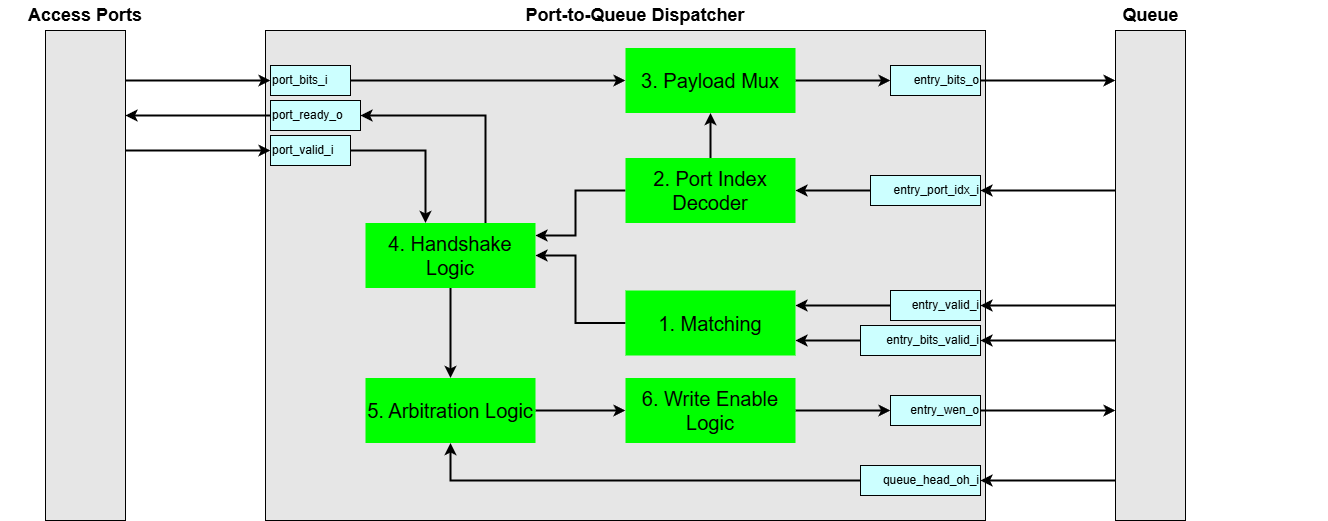
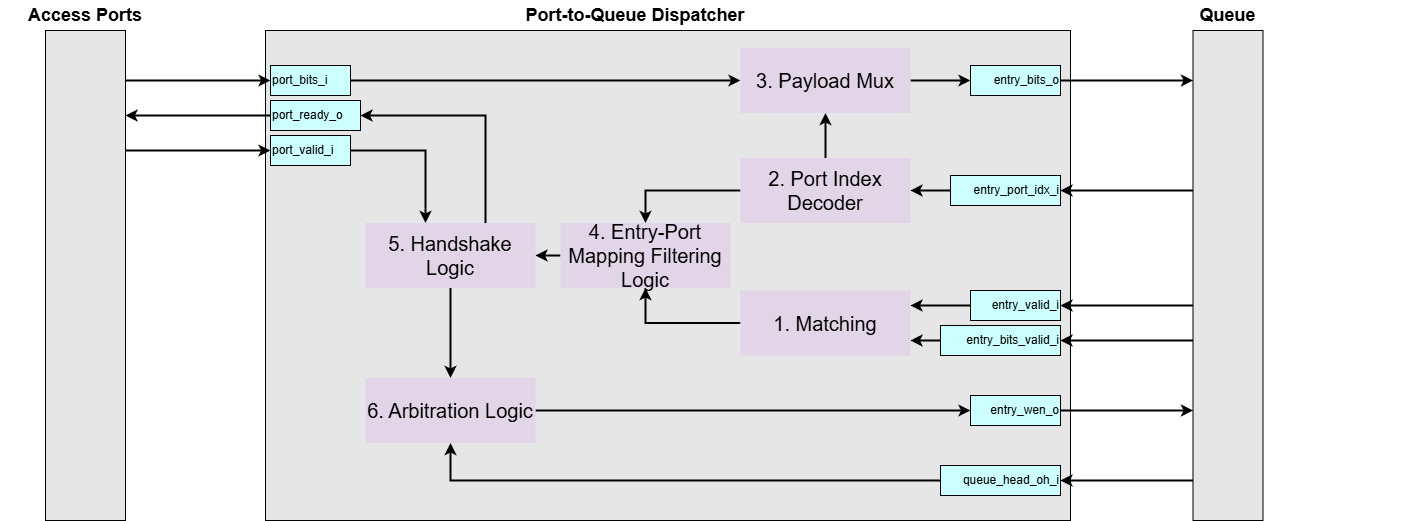
port-to-queue dispatcher document updates: adding more figures and clearer description

diff --git a/docs/LSQ/PortToQueueDispatcher.md b/docs/LSQ/PortToQueueDispatcher.md
@@ -18,50 +18,115 @@ In the LSQ architecture, memory operations from the dataflow circuit arrive at d
 
 ![Port-to-Queue Dispatcher High-Level](./figs/PTQ_high_level.png)
 
-### Interface Signals
-| Signal Name          | Description     |
-| -------------------- |  --------------- |
-| `port_bits_i[p]`        | _“Here is my 8-bit payload.”_ (address or data)  |
-| `port_valid_i[p]`       | _“…and I really mean it.”_  High when the payload is ready.   |
-| `port_ready_o[p]`       | Dispatcher replies: _“Sure, send it!”_  Goes high if the queue can take the request this cycle.  |
-| `entry_valid_i[e]`      | Is queue entry **_e_** logically allocated?   |
-| `entry_bits_valid_i[e]` | Has the addr/data slot already been filled? |
-| `entry_port_idx_i[e]`   | Indicates to which port the entry is assigned|
-| `entry_bits_o[e]`       | The data actually written into the queue entry **_e_**. Think of it as the ink flowing into row **_e_** on the whiteboard.|
-| `entry_wen_o[e]`        | A short pulse that says _“commit the write into entry **_e_** now.”_ |
-| `queue_head_oh_i[e]`    | One-hot vector indicating the head entry in the queue |
+Let's assume the following generic parameters for dimensionality:
+* `N_PORTS`: The total number of ports.
+* `N_ENTRIES`: The total number of entries in the queue.
+* `PAYLOAD_WIDTH`: The bit-width of the payload (e.g., 8 bits).
+* `PORT_IDX_WIDTH`: The bit-width required to index a port (e.g., `ceil(log2(N_PORTS))`).
+
+### Port Interface Signals
+
+![Port Interface](./figs/PTQ_Port_Interface.png)
+
+These signals are used for communication between the external modules and the dispatcher's ports.
+
+| Signal Name | Direction | Dimensionality | Description |
+| :--- | :--- | :--- | :--- |
+| **Inputs** | | | |
+| `port_bits_i` | Input | `N_PORTS` of `std_logic_vector(PAYLOAD_WIDTH-1:0)` | Array of payloads (address or data), one for each port. |
+| `port_valid_i` | Input | `N_PORTS` of `std_logic` | Array of valid flags. When `port_valid_i[p]` is high, the payload on `port_bits_i[p]` is valid.|
+| **Outputs** | | | |
+| `port_ready_o` | Output | `N_PORTS` of `std_logic` | Array of ready flags. `port_ready_o[p]` goes high if the queue can accept the payload from port `p` this cycle. |
+
+
+
+### Queue Interface Signals
+
+These signals are used for communication between the dispatcher logic and the queue's memory entries.
+
+![Queue Interface](./figs/PTQ_Queue_Interface.png)
+
+| Signal Name | Direction | Dimensionality | Description |
+| :--- | :--- | :--- | :--- |
+| **Inputs** | | | |
+| `entry_valid_i` | Input | `N_ENTRIES` of `std_logic` | Is queue entry `e` logically allocated? |
+| `entry_bits_valid_i` | Input | `N_ENTRIES` of `std_logic` | Has the address or the data slot for entry `e` already been filled? |
+| `entry_port_idx_i` | Input | `N_ENTRIES` of `std_logic_vector(PORT_IDX_WIDTH-1:0)`| Indicates to which port each entry is assigned. |
+| `queue_head_oh_i` | Input | `std_logic_vector(N_ENTRIES-1:0)` | One-hot vector indicating the head entry in the queue. |
+| **Outputs** | | | |
+| `entry_bits_o` | Output | `N_ENTRIES` of `std_logic_vector(PAYLOAD_WIDTH-1:0)`| The data to be written into each queue entry. Think of it as the ink flowing into a row on the whiteboard. |
+| `entry_wen_o` | Output | `N_ENTRIES` of `std_logic` | A write-enable signal for each entry. When `entry_wen_o` of entry `e` is high, `entry_bits_valid_i[e]` will become high by the logic outside of the dispatcher. |
+
+
 
 
 The Port-to-Queue Dispatcher has the following responsibilities:
 
 1. **Matching**  
-The Matching block is responsible for identifying which queue entries are actively waiting to receive an address or data payload.
-    - **Input**: `entry_valid_i`, `entry_bits_valid_i`
-    - **Processing**: For each queue entry, this block performs the check: `entry_valid_i AND (NOT entry_bits_valid_i)`. An entry is considered waiting only if it has been allocated (`entry_valid_i = 1`) by the group allocator but has not yet had its address or data payload written.
-    - **Output**: A array of bits indicating the status of all queue entries.
+    ![Matching](./figs/Matching.png)  
+    The Matching block is responsible for identifying which queue entries are actively waiting to receive an address or data payload.
+    - **Input**:  
+        - `entry_valid_i`: Indicates if the entry is allocated by the group allocator.
+        - `entry_bits_valid_i`: Indicates if the entry's payload slot is already filled. 
+    - **Processing**: For each queue entry, this block performs the check: `entry_valid_i AND (NOT entry_bits_valid_i)`. An entry is considered waiting only if it has been allocated (`entry_valid_i = 1`) but its payload slot is still empty (`entry_bits_valid_i = 0`)
+    - **Output**:  
+        - `entry_request_valid`: A array of bits indicating the queue entry is ready to receive address or data.
 
 2. **Port Index Decoder**  
-For each queue entry, it is already assigned to the port by the group allocator. The Port Index Decoder block translates the port assignment for each queue entry from a binary index into a one-hot vector.
-    - **Input**: `entry_port_idx_i`
-    - **Processing**: It performs a binary-to-one-hot conversion on the port index associated with each entry. For example, if there are 3 ports, a binary index of `01` would be converted to a one-hot vector of `010`.
-    - **Output**: A one-hot vector for each entry that directly corresponds to the port it is assigned to.
+    ![Port_Index_Decoder](./figs/Port_Index_Decoder.png)  
+    When the group allocator allocates a queue entry, it also assigns the queue entry to a specific port, storing this port assignment as an integer. The Port Index Decoder decodes the port assignment for each queue entry from an integer representation to a one-hot representation.
+    - **Input**:   
+        - `entry_port_idx_i`: Queue entry-port assignment information
+    - **Processing**:  
+        - It performs a binary-to-one-hot conversion on the port index associated with each entry. For example, if there are 3 ports, a binary index of `01` would be converted to a one-hot vector of `010`.
+    - **Output**:  
+        - `entry_port_valid`: A one-hot vector for each entry that directly corresponds to the port it is assigned to.
 
 3. **Payload Mux**  
-This block constitutes the main data path of the dispatcher. It ensures that each queue entry's input is connected to the correct address or data payload from the assigned access port.
-    - **Input**: `port_bits_i` (address or data from all access ports), and a select one-hot select signal indicating the port index for each queue entry.
-    - **Processing**: For each queue entry, this is a multiplexer that selects one port's data from the `port_bits_i` array. The selection is determined by the one-hot port index from the `Port Index Decoder`.
-    - **Output**: `entry_bits_o`
+    ![Mux1H](./figs/Mux1H.png)  
+    This block routes the address or data payload from the appropriate input port to the correct queue entries. 
+    - **Input**:  
+         - `port_bits_i`: An array containing the address or data payload from all access ports.
+         - `entry_port_valid`: The one-hot port assignment for each queue entry, used as the select signal.
+    - **Processing**: For each queue entry, a multiplexer `Mux1H` uses the corresponding `entry_port_valid` one-hot vector to select one payload from `port_bits_i` array.
+    - **Output**:  
+        - `entry_bits_o`: The selected payload of each queue entry.
 
-4. **Handshake Logic**
-This block manages the `valid/ready` handshake protocol with the external access ports.
-    - **Input**: The list of waiting entries (from `Matching`), their port assignments (from `Port Index Decoder`), and the `port_valid_i` signal.
-    - **Processing**: It determines if any waiting entry is requesting data from a specific port. If so, it asserts the `ready` signal for that port, indicating it is prepared to accept the payload. Furthermore, it filters all waiting requests against the incoming `port_valid_i` signals to determine the final set of active requests that are passed to the `Arbitration Logic`.
+4. **Entry-Port Assignment Masking Logic**  
+    ![Entry-Port Assignment Assignment Logic](./figs/Ready_Port_Selector.png)  
+    Each entry is waiting for the payload from a certain port. This block masks out the port assignments for each queue entry if it is not ready to receive the payload. It propagates these entry-port assignment information only for entries that are available to receive the payload.
+    
+    - **Input**:  
+         - `entry_port_valid`: A one-hot vector for each entry representing its assigned port.
+         - `entry_request_valid`: A bit array indicating which entries are ready to receive.
+    - **Processing**: Performs a bitwise AND operation between each entry's one-hot port assignment (`entry_port_valid`) and its readiness status (`entry_request_valid`). This masks out assignments for entries that are not ready.
+    - **Output**:  
+        - `entry_port_request`: A one-hot vector for each entry representing its assigned port, but zero when the queue entry is not ready.
 
-5. **Arbitration Logic**  
-The core decision making block of the dispatcher. When multiple valid requests are ready to be written in the same cycle, it chooses the oldest queue entry among the valid ones for each port.
-    - **Input**: The set of all currently valid and ready requests (informed by `Handshake Logic`), and `queue_head_oh_i` to determine priority.
-    - **Processing**: It uses a Cyclic Priority Masking algorithm. This ensures that among all candidates for each port, the one corresponding to the oldest entry in the queue is granted for the current clock cycle.
-    - **Output**: `entry_wen_o` signal, which acts as the enable for the queue entry. This signal finally makes the queue's `entry_bits_valid` signal high.
+
+
+5. **Handshake Logic**  
+    ![PTQ_Handshake](./figs/PTQ_Handshake.png)  
+    This block manages the `valid/ready` handshake protocol with the external access ports. It generates the outgoing `port_ready_o` signals and produces the final entry-port assignments that have completed a successful handshake (i.e. the internal request is ready and the external port is valid).
+
+    - **Input**:  
+        - `entry_port_request`: A one-hot vector for each entry representing its assigned port, but zero when the queue entry is not ready.
+        - `port_valid_i`: The incoming port valid signals from each external port.
+    - **Processing**:  
+        - Ready Generation: It determines if any queue entry is waiting for data from a specific port. If so, it asserts the `port_ready_o` signal for that port to indicate it can accept data. 
+        - Handshake: It then uses the external `port_valid_i` signals to mask out entries in `entry_port_request` if the corresponding port is not valid.
+    - **Output**:
+        - `port_ready_o`: The outgoing ready signal to each external port.
+        - `entry_port_and`: Represents the set of handshaked entry-port assignments. This signal indicates a successful handshake and is sent to the **Arbitration Logic** to select the oldest one.
+
+6. **Arbitration Logic**  
+    ![PTQ_Handshake](./figs/PTQ_Masking.png)  
+    The core decision making block of the dispatcher. When multiple handshaked entry-port assignments are ready to be written in the same cycle, it chooses the oldest queue entry among the valid ones for each port.
+    - **Input**:  
+        - `entry_port_and`: The set of all currently valid and ready entry-port assignments.
+        - `queue_head_oh_i`: The queue's one-hot head vector.
+    - **Processing**: It uses a `CyclicPriorityMasking` algorithm. This ensures that among all candidates for each port, the one corresponding to the oldest entry in the queue is granted for the current clock cycle.
+    - **Output**: `entry_wen_o` signal, which acts as the enable for the queue entry. This signal ultimately causes the queue's `entry_bits_valid` signal to go high via logic outside of the dispatcher.
 
 
 
@@ -73,8 +138,9 @@ The core decision making block of the dispatcher. When multiple valid requests a
 ### Example of Store Address Port-to-Queue Dispatcher (3 Store Ports, 4 Store Queue Entries)
 
 1. **Matching: Identifying which queue slots are empty**  
-The first job of this block is to determine which entries in the store queue are waiting for a store address.  
-Based on the example diagram:  
+    ![Matching](./figs/Matching.png)  
+    The first job of this block is to determine which entries in the store queue are waiting for a store address.  
+    Based on the example diagram:  
     - **Entry 1** is darkened to indicate that it has not been allocated by the Group Allocator. Its `Store Queue Valid` signal (equivalent to `entry_valid_i`) is `0`.  
     - **Entries 0, 2, and 3** have been allocated, so their `entry_valid_i` signal are `1`. However, among these, Entry 2 already has a valid address (`Store Queue Addr Valid = 1`).
     - Therefore, only `Entries 0 and 3` are actively waiting for their store address, as they are allocated but their `Store Queue Addr Valid` bit is still `0`.  
@@ -82,8 +148,9 @@ Based on the example diagram:
     This logic is captured by the expression `entry_request_valid = entry_valid_i AND (NOT entry_bits_valid_i)`, which creates a list of entries that need attention from the dispatcher.
 
 2. **Port Index Decoder: Queue entries port assignment in one-hot format**
-This block's circuit is to translate the binary port index assigned to each queue entry into a one-hot format.  
-Based on the example diagram:  
+    ![Port_Index_Decoder](./figs/Port_Index_Decoder.png)  
+    This block's circuit is to decode the binary port index assigned to each queue entry into a one-hot format.  
+    Based on the example diagram:  
     - The `Store Queue` shows that `Entry 0` is assigned to `Port 1` , `Entry 1` to `Port 0`, `Entry 2` to `Port 1` and `Entry 3` to `Port 2`. 
     - The `Port Index Decoder` takes these binary indices (`00`, `01`, `10`) as input.
     - It processes them and generates a corresponding one-hot vector for each entry. Since there are three access ports, the vector are three bits wide:
@@ -95,9 +162,8 @@ Based on the example diagram:
     The output of this block, an array of one-hot vectors, is a crucial input for the `Payload Mux`, where it acts as the select signal to choose the data from the correct port.    
 
 3. **Payload Mux: Routing the correct address**  
-The Payload Mux is the primary data path within the dispatcher. Its sole responsibility is to select the correct address from one of the many input `Access Ports` and route it to the output, `entry_bits_o`.  
-Crucially, there is a separate Mux for each queue entry. The selection for each Mux is determined by the pre-assigned port index for that entry.  
-Based on the example diagram:
+    ![PTQ_Payload_MUX](./figs/PTQ_Payload_MUX.png)  
+    Based on the example diagram:
     - The `Access Ports` table shows the current address payloads being presented by each port:
         - `Port 0`: `01101111`
         - `Port 1`: `11111000`
@@ -111,18 +177,41 @@ Based on the example diagram:
     
     The output of this block, `entry_bits_o` is logically committed to the queue only when the `Arbitration Logic` asserts the `entry_wen_o` signal for that specific entry.
 
-4. **Handshake Logic: Managing port readiness and filtering requests**
+
+4. **Entry-Port Assignment Masking Logic**  
+    ![Entry-Port Assignment Assignment Logic](./figs/Ready_Port_Selector.png)  
+    Based on the example diagram:
+    - `entry_request_valid`:
+        - `Entry 0`: `1` (Valid)    -> `111`
+        - `Entry 1`: `0` (Invalid)  -> `000`
+        - `Entry 2`: `0` (Invalid)  -> `000`
+        - `Entry 2`: `1` (Valid)    -> `111`
+    - The `entry_request_valid`:
+        - `Entry 0`: `010` (Port 1)
+        - `Entry 1`: `000` (Port 0)
+        - `Entry 2`: `010` (Port 1)
+        - `Entry 3`: `100` (Port 2)
+    - Bitwise AND operation
+        - `Entry 0`: `111` AND `010` = `010`
+        - `Entry 1`: `000` AND `000` = `000`
+        - `Entry 2`: `000` AND `010` = `000`
+        - `Entry 3`: `111` AND `100` = `010`
+        
+        > `entry_port_request`: A one-hot vector for each entry representing its assigned port, but zero when the queue entry is not ready.
+
+
+5. **Handshake Logic: Managing port readiness and masking the port assigned with invalid ports**
 This block is responsible for the `valid/ready` handshake protocol with the `Access Ports`. It performs two functions: providing back-pressure to the ports and identifying all currently active memory requests for the arbiter.  
 Based on the example diagram:
     - **Back-pressure control**: First, the block determines which ports are `ready`.
-        - From the `Matching` and `Port Index Decoder` blocks, we know that `Entry 0` and `Entry 3` are waiting for an address from `Port 1` and `Port 2` respectively.
+        - From the `Entry-Port Assignment Masking Logic` block, we know that `Entry 0` and `Entry 3` are waiting for an address from `Port 1` and `Port 2` respectively.
         - Therefore, it asserts `port_ready_o` to `1` for both `Port 1` and `Port 2`.
         - No entry is waiting for `Port 0`, so its ready signal is `0`.
     - **Active request filtering**: The block checks which ports are handshaked. The `Access Ports` table shows `port_valid_i` is `1` for both `Port 1` and `Port 2`. Since the waiting entries (`Entry 0` and `Entry 3`) correspond to the valid ports (`Port 1` and `Port 2`), both are considered active and are passed to the `Arbitration Logic`.
         
 
-5. **Arbitration Logic: Selecting the oldest active entry**  
-This block is responsible for selecting the oldest active request for each port and generating the write enable signal for such requests.  
+6. **Arbitration Logic: Selecting the oldest active entry**  
+This block is responsible for selecting the oldest active memory request for each port and generating the write enable signal for such requests.  
 Based on the example diagram:
     - The `Handshake Logic` has identified two active requests: one for `Entry 0` from `Port 1` and another for `Entry 3` from `Port 2`.
     - The CyclicPriorityMasking algorithm operates independently on each port's request list.
